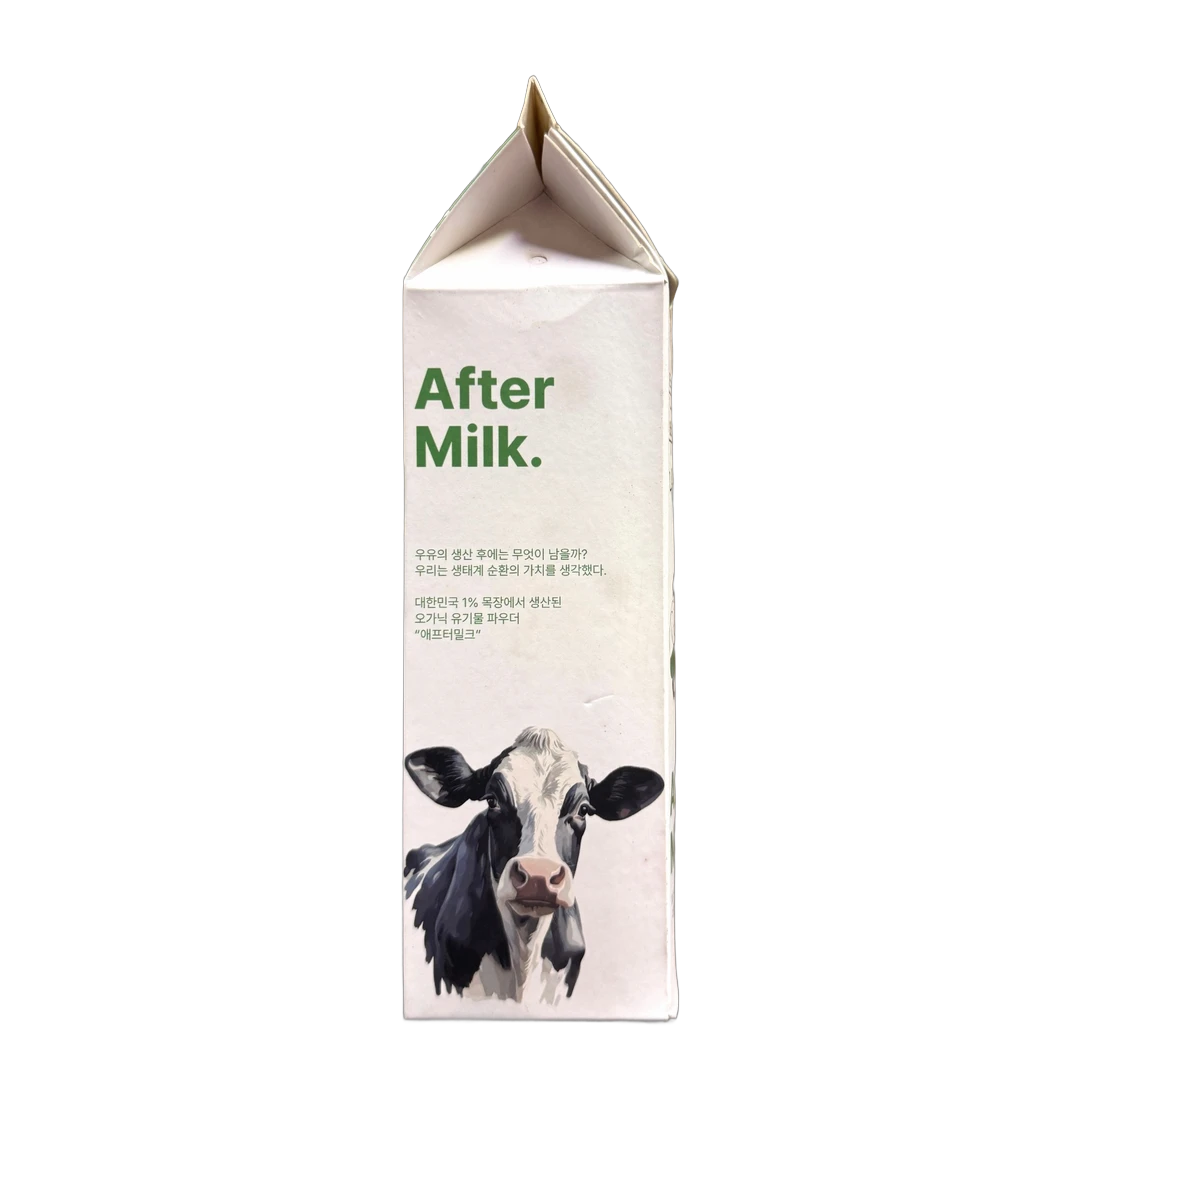
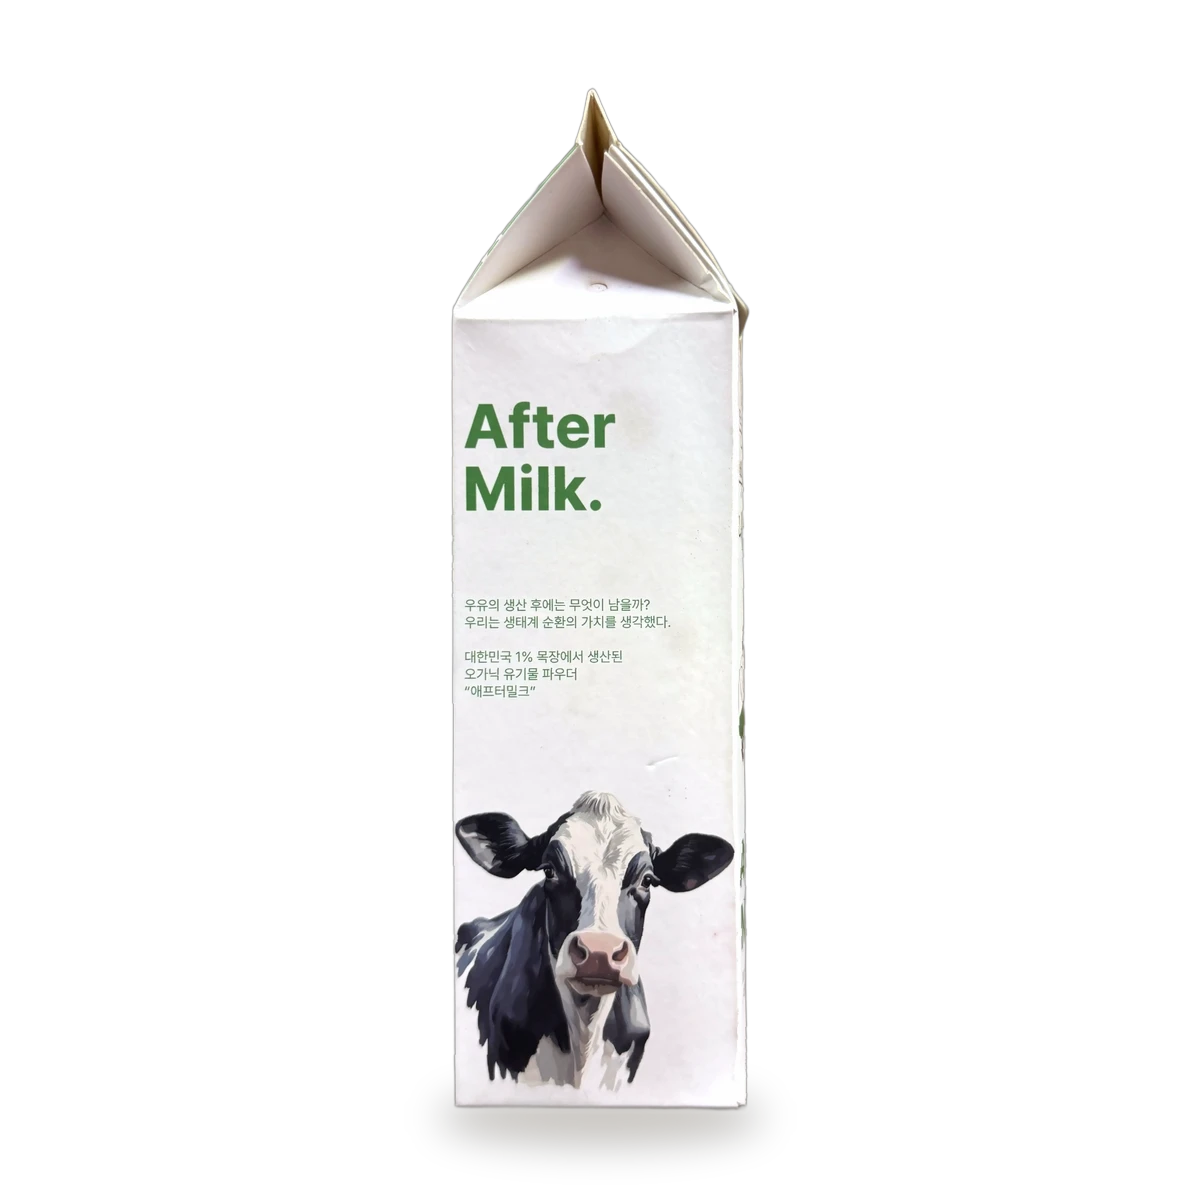
feat(aftermilk): 실사 4컷 정밀 편집 + 상세 페이지 썸네일 갤러리 (#156)
- 4컷 전체(정면·브랜드 스토리·제품 정보·사용법) 편집 파이프라인:
  기울기 보정(deskew) → 좌우 윤곽 직선화(찌그러짐 펴기, 게이블면은 몸통만)
  → 종이 화이트닝·주름 완화(edge-preserving) → 윤곽 스무딩 → 소프트
  그림자 + 1200×1200 규격 합성.
- 정면·제품정보면은 구겨진 상단(뜯긴 탭·울퉁불퉁한 띠)을 잘라내고
  실제 패키지와 같은 그린 밴드(Poppins Bold 'After Milk')로 재구성.
- Product.gallery 필드 + ProductGallery(썸네일 전환) 컴포넌트 신설 —
  갤러리 있는 제품은 상세에서 4컷 전환, 나머지는 기존 단일 이미지.

Claude-Session: https://claude.ai/code/session_01C1mbHJGrM3ib5fgJccdtAc

Changed region(s): [[0.3083, 0.0617, 0.6475, 0.9558], [0.6167, 0.555, 0.6475, 0.6167], [0.555, 0.5242, 0.5858, 0.5858]]

diff --git a/app/products/[id]/page.tsx b/app/products/[id]/page.tsx
@@ -17,6 +17,7 @@ import { ProductKicker, ProductHighlights } from "@/components/ProductHighlights
 import { ProductReviews } from "@/components/ProductReviews";
 import { TrustBadges } from "@/components/TrustBadges";
 import { AftermilkAssurance } from "@/components/AftermilkAssurance";
+import { ProductGallery } from "@/components/ProductGallery";
 import { ProductSignature } from "@/components/ProductSignature";
 import { Footer } from "@/components/Footer";
 import { Reveal } from "@/components/Reveal";
@@ -145,17 +146,25 @@ export default async function ProductPage({
           {/* 이미지 — 데스크톱에선 왼편 고정: 구매 영역을 스크롤하는 동안 제품이 항상 보인다. */}
           {/*   모바일은 높이를 제한해 제품과 구매 영역이 한 화면에 함께 보이게 한다. */}
           <div className="lg:sticky lg:top-24">
-            <div className="relative mx-auto h-[44vh] max-w-md overflow-hidden rounded-[2rem] bg-paper lg:h-auto lg:aspect-[4/5] lg:max-w-none">
-              <Image
-                src={product.image}
+            {/* 멀티 컷 제품(gallery)은 썸네일 갤러리, 그 외엔 단일 이미지 */}
+            {product.gallery ? (
+              <ProductGallery
+                images={product.gallery}
                 alt={`${product.name} ${product.volume}`}
-                width={1200}
-                height={1200}
-                priority
-                sizes="(max-width:1024px) 92vw, 46vw"
-                className="h-full w-full object-contain p-6 sm:p-10"
               />
-            </div>
+            ) : (
+              <div className="relative mx-auto h-[44vh] max-w-md overflow-hidden rounded-[2rem] bg-paper lg:h-auto lg:aspect-[4/5] lg:max-w-none">
+                <Image
+                  src={product.image}
+                  alt={`${product.name} ${product.volume}`}
+                  width={1200}
+                  height={1200}
+                  priority
+                  sizes="(max-width:1024px) 92vw, 46vw"
+                  className="h-full w-full object-contain p-6 sm:p-10"
+                />
+              </div>
+            )}
           </div>
 
           {/* 오른쪽 구매 컬럼 — 구매 결정에 필요한 것만(제품명·별점·가격·구매). 설명은 아래로. */}

diff --git a/components/ProductGallery.tsx b/components/ProductGallery.tsx
@@ -1,0 +1,57 @@
+"use client";
+
+// 제품 상세 갤러리 — 대표 이미지 + 썸네일 전환(멀티 컷 제품용).
+//   product.gallery 가 있는 제품(애프터밀크 등)에서 단일 Image 대신 쓴다.
+import Image from "next/image";
+import { useState } from "react";
+
+export function ProductGallery({
+  images,
+  alt,
+}: {
+  images: { src: string; label: string }[];
+  alt: string;
+}) {
+  const [idx, setIdx] = useState(0);
+  const current = images[idx] ?? images[0];
+
+  return (
+    <div>
+      <div className="relative mx-auto h-[44vh] max-w-md overflow-hidden rounded-[2rem] bg-paper lg:h-auto lg:aspect-[4/5] lg:max-w-none">
+        <Image
+          src={current.src}
+          alt={`${alt} — ${current.label}`}
+          width={1200}
+          height={1200}
+          priority
+          sizes="(max-width:1024px) 92vw, 46vw"
+          className="h-full w-full object-contain p-6 sm:p-10"
+        />
+      </div>
+      {images.length > 1 && (
+        <div className="mt-3 flex justify-center gap-2">
+          {images.map((img, i) => (
+            <button
+              key={img.src}
+              type="button"
+              onClick={() => setIdx(i)}
+              aria-label={`${img.label} 보기`}
+              aria-pressed={i === idx}
+              className={`relative h-16 w-14 overflow-hidden rounded-xl border bg-paper transition-colors ${
+                i === idx ? "border-gold" : "border-line hover:border-gold/50"
+              }`}
+            >
+              <Image
+                src={img.src}
+                alt=""
+                fill
+                sizes="56px"
+                className="object-contain p-1.5"
+              />
+            </button>
+          ))}
+        </div>
+      )}
+    </div>
+  );
+}

diff --git a/lib/products.ts b/lib/products.ts
@@ -85,6 +85,8 @@ export type Product = {
   //   구매 패널·상세·쇼케이스가 구독 UI 대신 단품 동선만 노출한다.
   onceOnly?: boolean;
   image: string;
+  // 상세 페이지 멀티 컷 갤러리(대표 이미지 포함, 순서대로). 미지정 시 단일 image.
+  gallery?: { src: string; label: string }[];
   accent: string;
 };
 
@@ -483,6 +485,12 @@ export const PRODUCTS: Product[] = [
     taxFree: false,
     onceOnly: true,
     image: "/products/aftermilk-1l.webp",
+    gallery: [
+      { src: "/products/aftermilk-1l.webp", label: "정면" },
+      { src: "/products/aftermilk-1l-side.webp", label: "브랜드 스토리" },
+      { src: "/products/aftermilk-1l-label.webp", label: "제품 정보" },
+      { src: "/products/aftermilk-1l-steps.webp", label: "사용법" },
+    ],
     accent: "#4f9d3d",
   },
 ];
